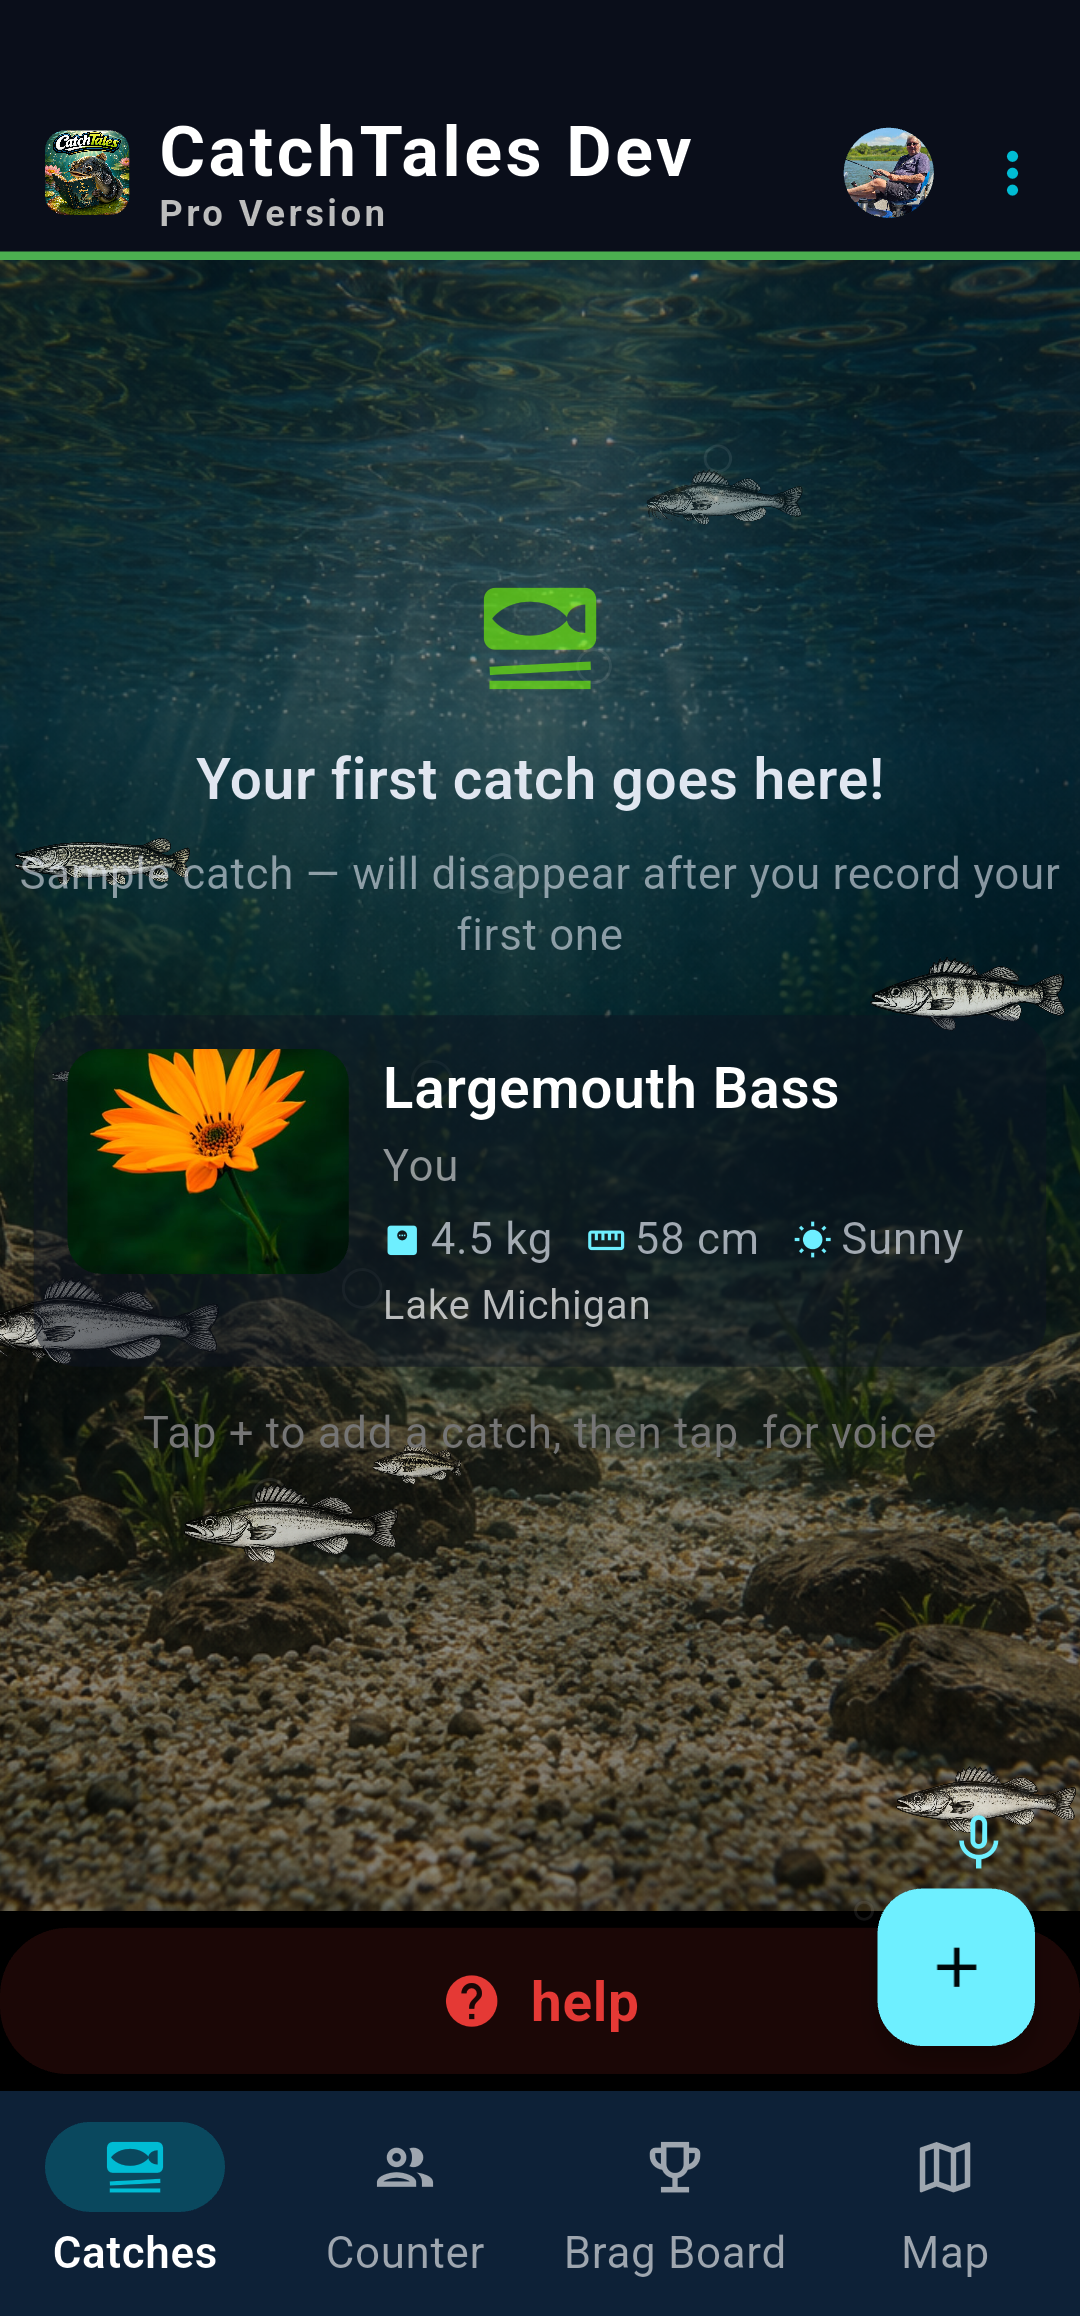
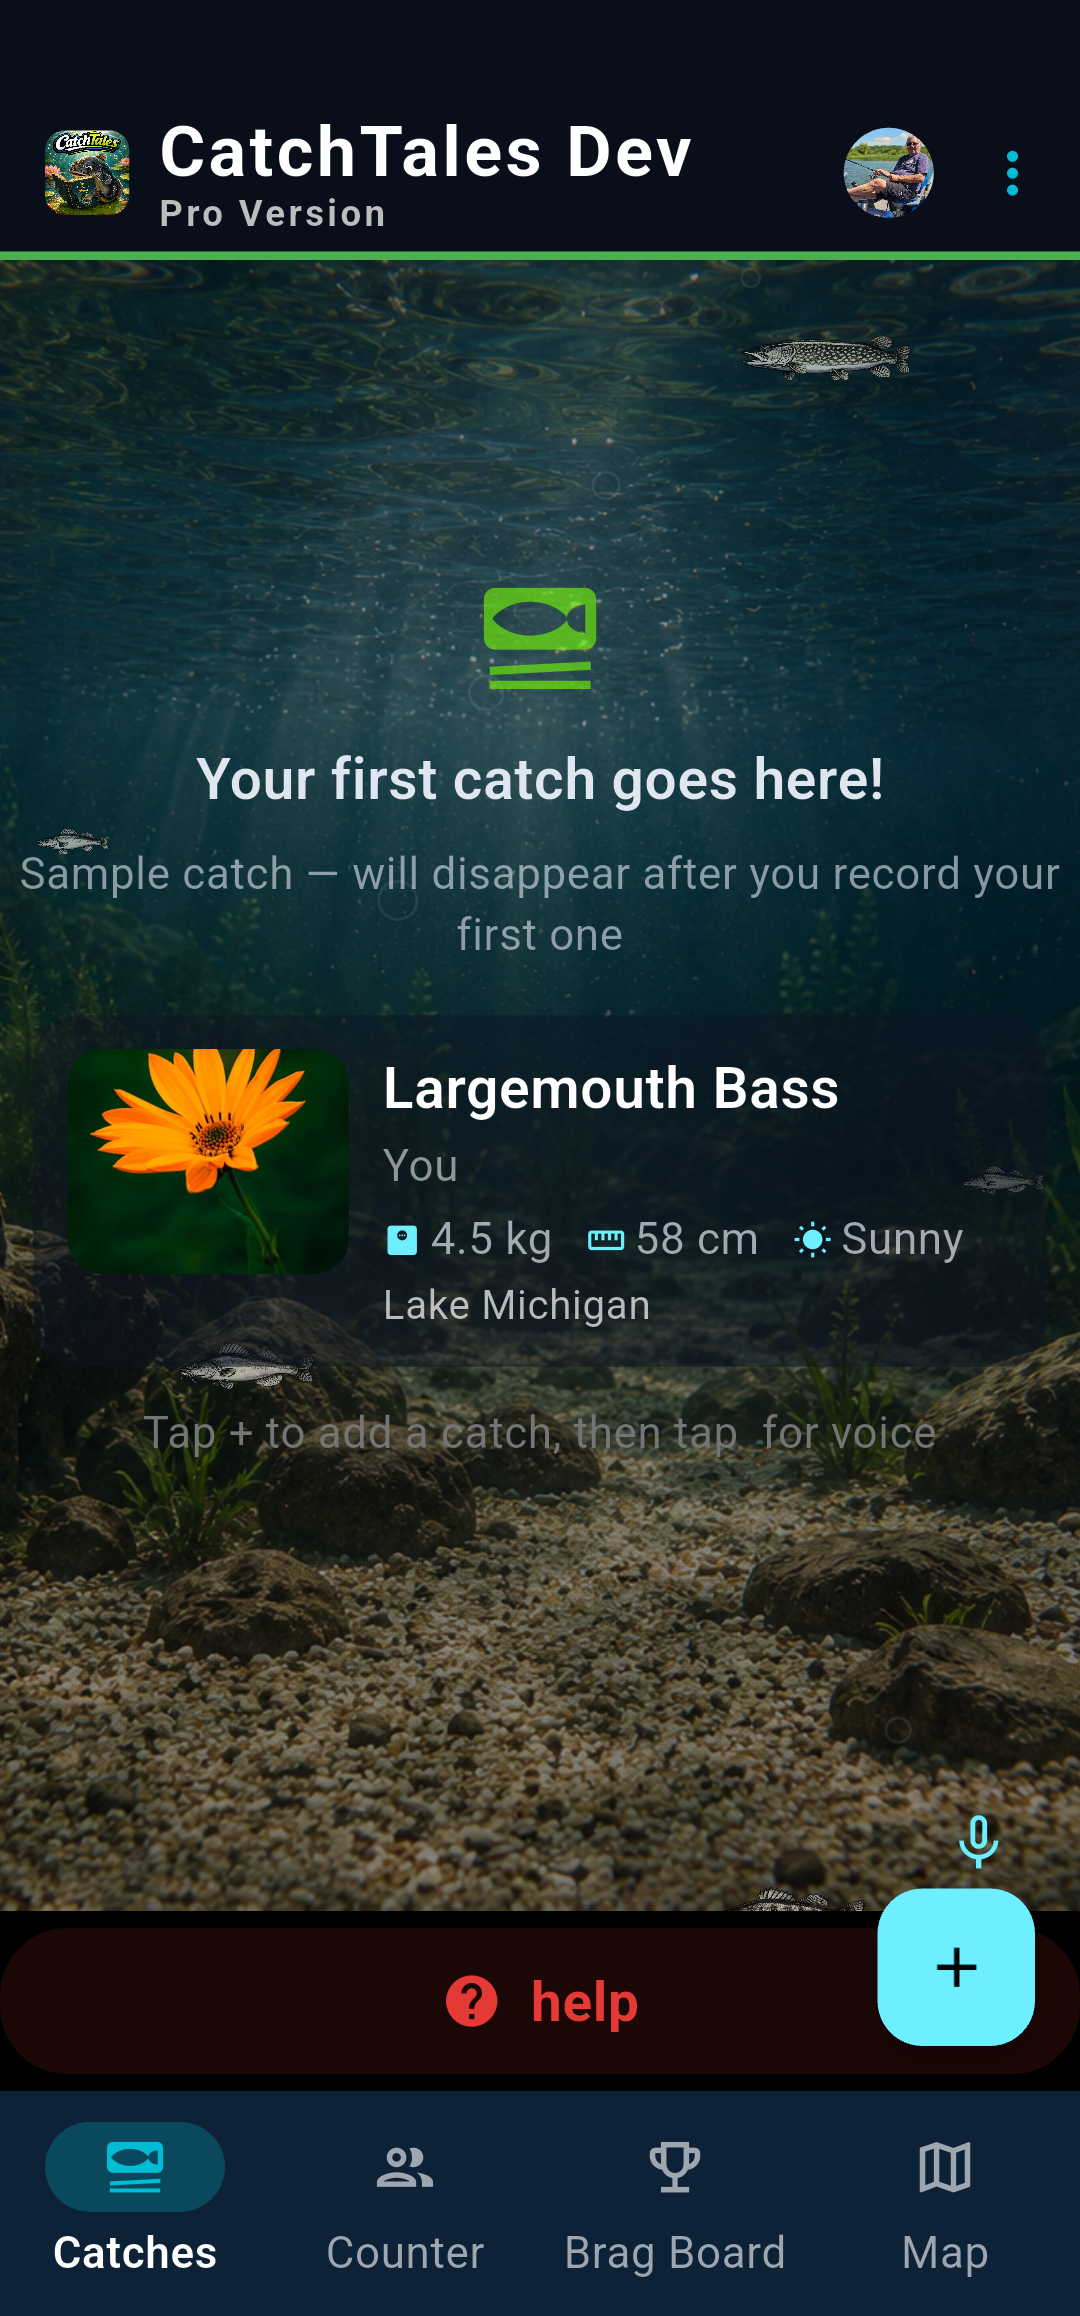
Replace slide 19 map with trolling boat photo, update solunar/catches/tackle screenshots

diff --git a/how-to-walleye-video.html b/how-to-walleye-video.html
@@ -504,10 +504,10 @@ const scenes = [
   {
     id: 19,
     start: 95, duration: 5,
-    bg: '/underwater.webp',
-    fg: '/images/walkthrough/screen-map.png',
-    fgClass: 'phone',
-    text: '',
+    bg: '/images/trolling-boat.webp',
+    fg: '',
+    fgClass: '',
+    text: '<div class="sub" style="margin-top:auto;padding-bottom:10px;color:#76FF03;font-size:clamp(0.8em,2vw,1em);">🚤 1.5 - 2.5 mph · Points &amp; Humps</div>',
     caption: '"Trolling — crankbaits at 1.5-2.5 mph along points and humps."',
     ts: '1:35'
   },